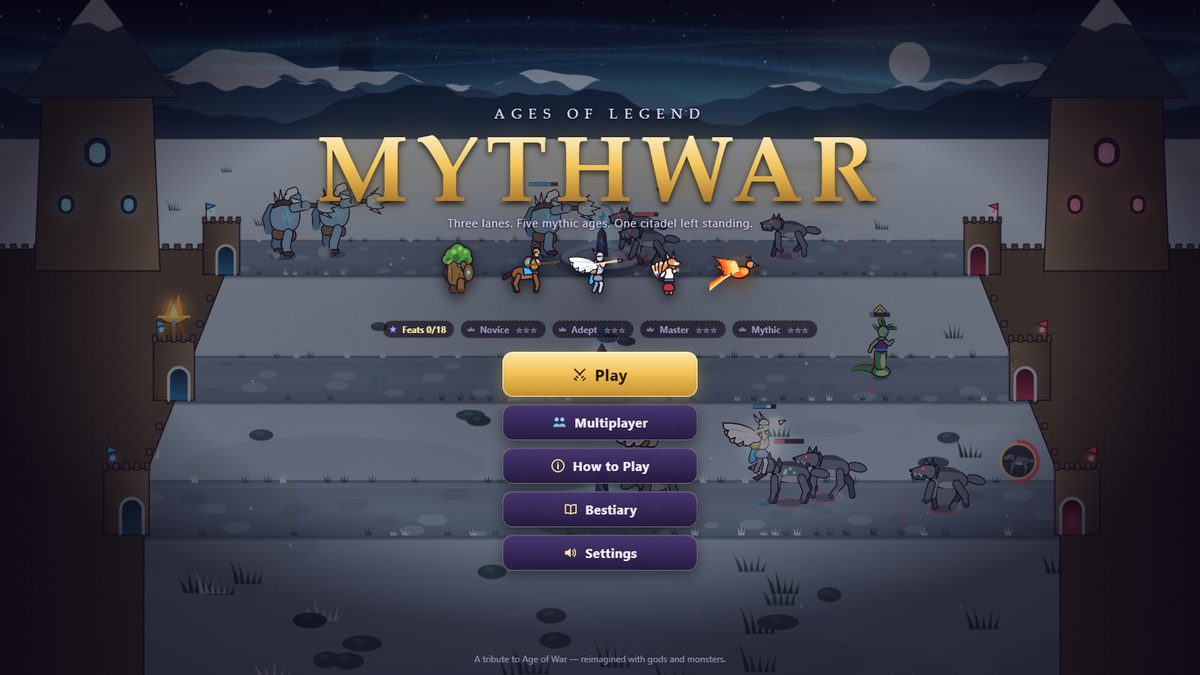
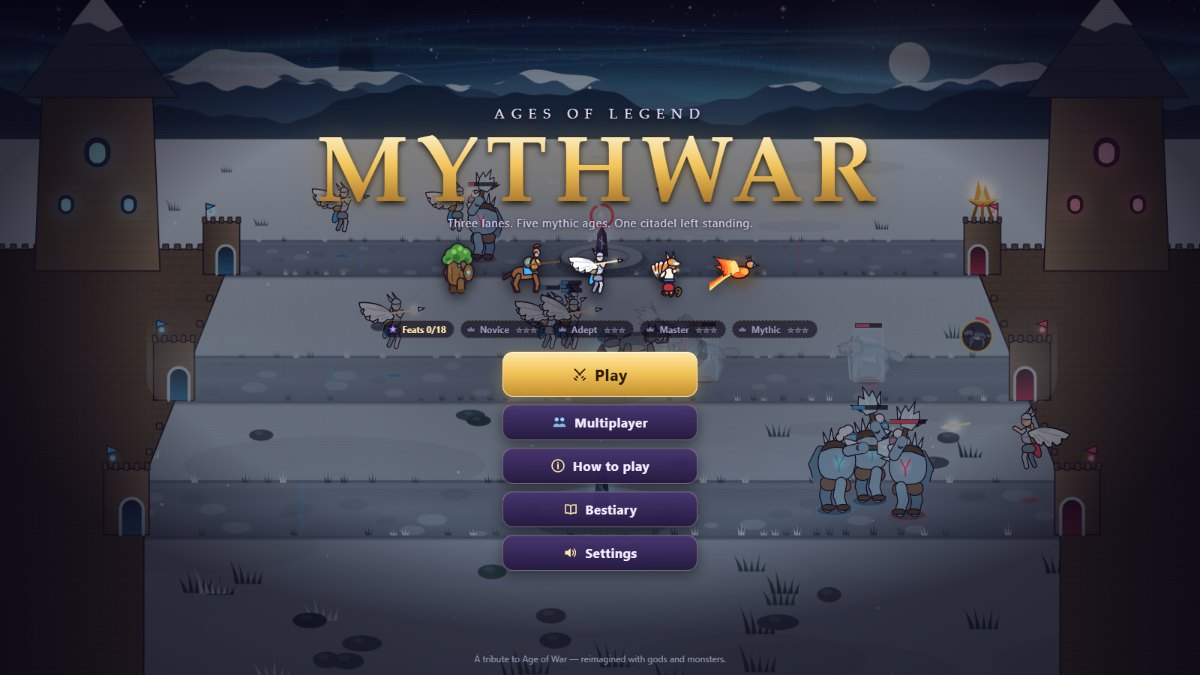
Backlog 259: README's title picture re-shot (sentence-case buttons)

diff --git a/PROGRESS.md b/PROGRESS.md
@@ -645,10 +645,13 @@ on screen.)
    walkover.", no Worthy Rival / first-victory feat) and the phone room's chips (≥ 37 px on the
    scaled stage, none overlapping), landscape and upright.
 (Items 259–: open for the next run.)
-259. [ ] README's and docs' pictures (`docs/*.jpg`, `npm run docshot`) predate run #10's visible
+259. [x] README's and docs' pictures (`docs/*.jpg`, `npm run docshot`) predate run #10's visible
    changes: "How to play" / "Begin battle", the room's note under its header on phones, the
    results' subtitle line. Re-shoot the ones that show them (title, room, results) and check
    each still says what its caption says.
+   (Done: only `docs/title.jpg` showed a change ("How to Play") — re-shot (`shoot menu-title`,
+   docshot 1200). The room picture is a desktop room (its layout only changed on short
+   stages); the phone picture is a battle; the others are single-player battles.)
 260. [x] The server logs "went quiet" / "heard from again" for every Wi-Fi blip of 4 s+ (#222) —
    a flaky phone could fill the host's console in a long session. Keep the first of each in a
    battle and sum the rest at the battle's end ("Bo went quiet 5 times, 23 s in all").
